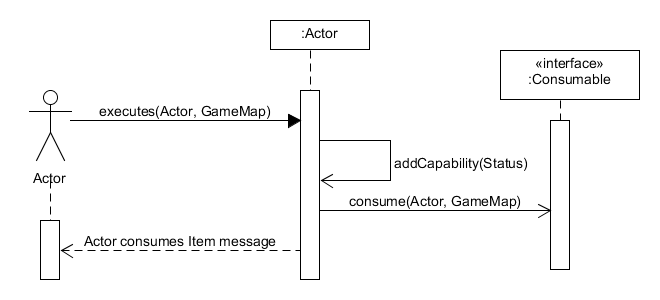
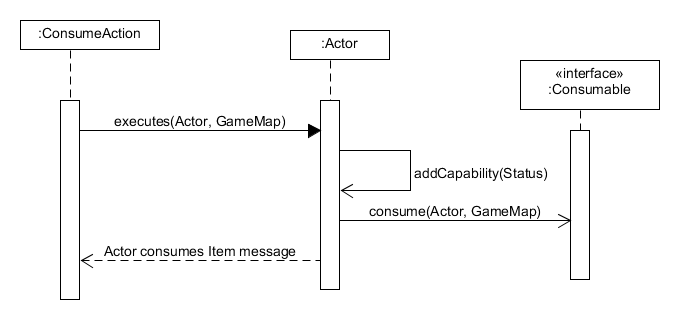
Updated the Design Rationale on Responsibilities and created a new Seq for REQ 4 regarding PS

diff --git a/design-docs/REQ7_DesignRationale.md b/design-docs/REQ7_DesignRationale.md
@@ -21,8 +21,11 @@ Resettable interface to each of them, and all the classes will perform their res
 allows our Reset code to not have complicated code to reset every enemy, item, and so on. This provides
 extensibility for the code as the future code is only required to implement their reset and not Reset Manager.
 
+
 A major design flaw for this REQ is that Reset does not really utilize the meaning of Action. In the
 execute function, it doesn’t even use the parameters given to it but instead just calls the
 ResetManager to perform the resetting of instances. However, it does not seem that there is
 another way to design this class since we need this Reset to be an Action so it could be registered in
-the Player’s action as one of the actions available and able to reset the game. 
+the Player’s action as one of the actions available and able to reset the game. The advantage of creating
+an additional class of Reset is that it follows the single responsibility principle whereby the Reset
+Manager only manages the reset while the Reset class is an Action which runs the Reset Manager.
